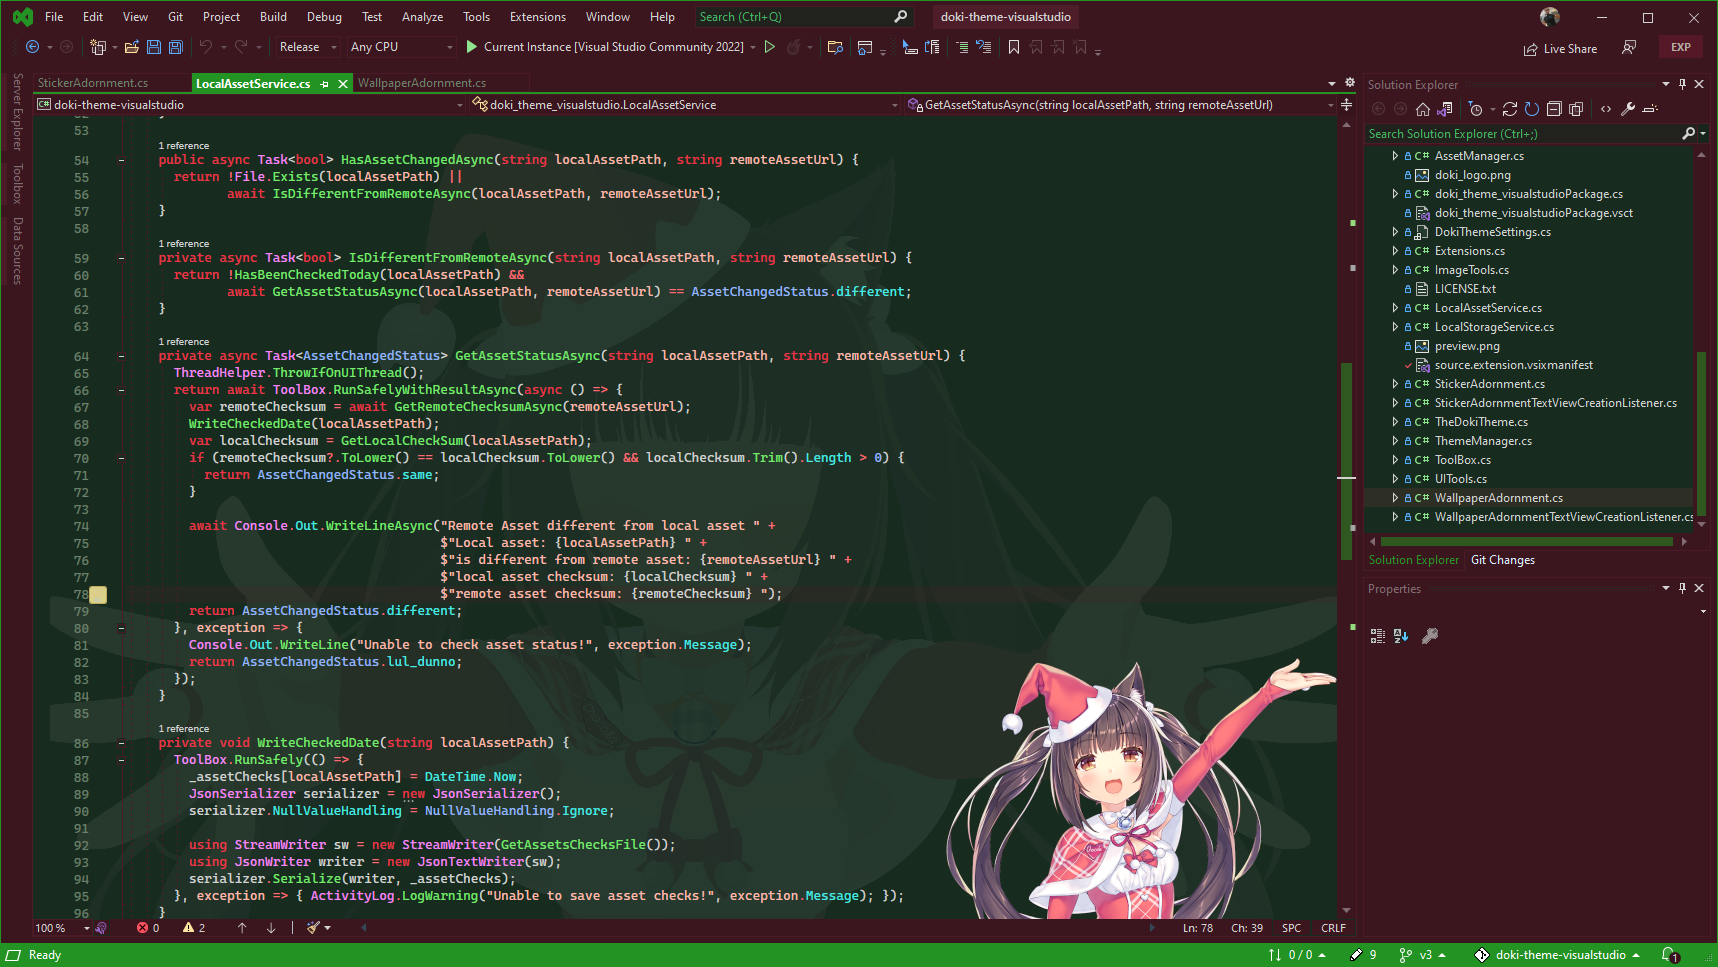
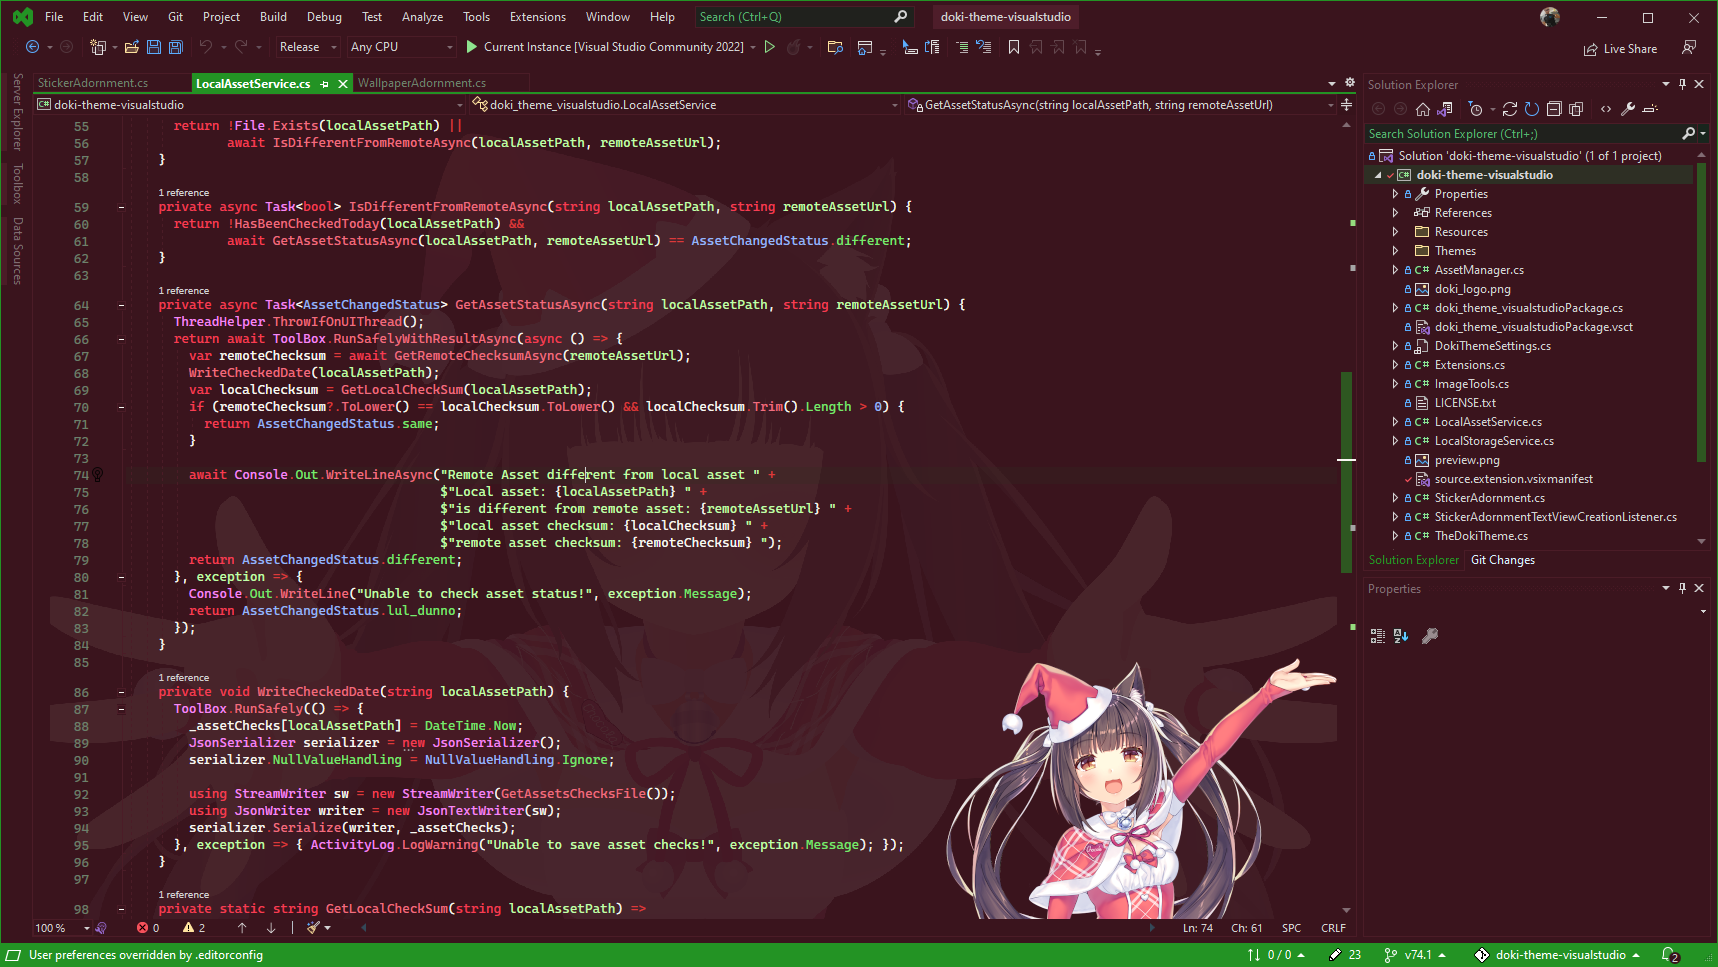
v74.1-1.0.0 - [Synapse break. Vanishment, this world!]

diff --git a/CHANGELOG.md b/CHANGELOG.md
@@ -1,6 +1,23 @@
 Changelog
 ---
 
+
+# 74.1-1.0.0 [Synapse break. Vanishment, this world!]
+
+**4 New Dark Themes!**
+
+- Decimate errors in the code alongside the Wicked Lord Shingan. Let your inner fantasies go rampant with Rikka Takanashi from: "Love, Chuunibyou, and Other Delusions". 
+- It is comfy time! Don't let feature requests stress you out, because you can now code with Nadeshiko from Yuru Camp. 
+- A Certain Scientific RailGun go: bzzzzzzt. Zap bugs out of existence with the electromaster Mikoto Misaka.
+- Raccoon + Tanuki = one really cute cinnamon bun. Enjoy your time coding with Raphtalia from: "Rising of the Shield Hero."
+
+![v74 Girls](https://doki.assets.unthrottled.io/misc/v74_girls.png)
+
+### Other Stuff
+
+- Updated Syntax Highlight & Look and Feel changes for the following legacy themes: Ibuki Dark, Astolfo, Aqua, Natsuki Light, Hatsune Miku, Christmas Chocola, Emilia Dark, Beatrice, Ram, and Rem.
+- Brightened all Dark Themes' default foreground color.
+
 # 3.0.1 [Bug Fixes]
 
 - Fixed issues with: NuGet Package Manager UI, Package Manager Console, & Search List item hover.

diff --git a/readmeAssets/albums/screenshot_album.md b/readmeAssets/albums/screenshot_album.md
@@ -6,6 +6,12 @@ Darling in the Franxx
 ![zero_two_dark_code](../screens/themes/zero_two_dark_code.png)
 ![zero_two_light_code](../screens/themes/zero_two_light_code.png)
 
+Chuunibyou Love and Other Delusions
+---
+
+### Takanashi Rikka
+
+![rikka_dark code](../screens/themes/rikka_dark_code.png)
 
 AzurLane
 ---
@@ -46,9 +52,29 @@ NekoPara
 YuruCamp
 ---
 
+### Nadeshiko
+
+![nadeshiko_dark code](../screens/themes/nadeshiko_dark_code.png)
+
+
 ### Shima Rin
 
 ![shima_rin_dark_code](../screens/themes/shima_rin_dark_code.png)
+
+Rising of the Shield Hero
+---
+
+### Raphtalia
+
+![raphtalia_dark code](../screens/themes/raphtalia_dark_code.png)
+
+
+A Certain Scientific RailGun
+---
+
+### Misaka Mikoto
+
+![mikoto_dark code](../screens/themes/mikoto_dark_code.png)
 
 Monogatari
 ---
